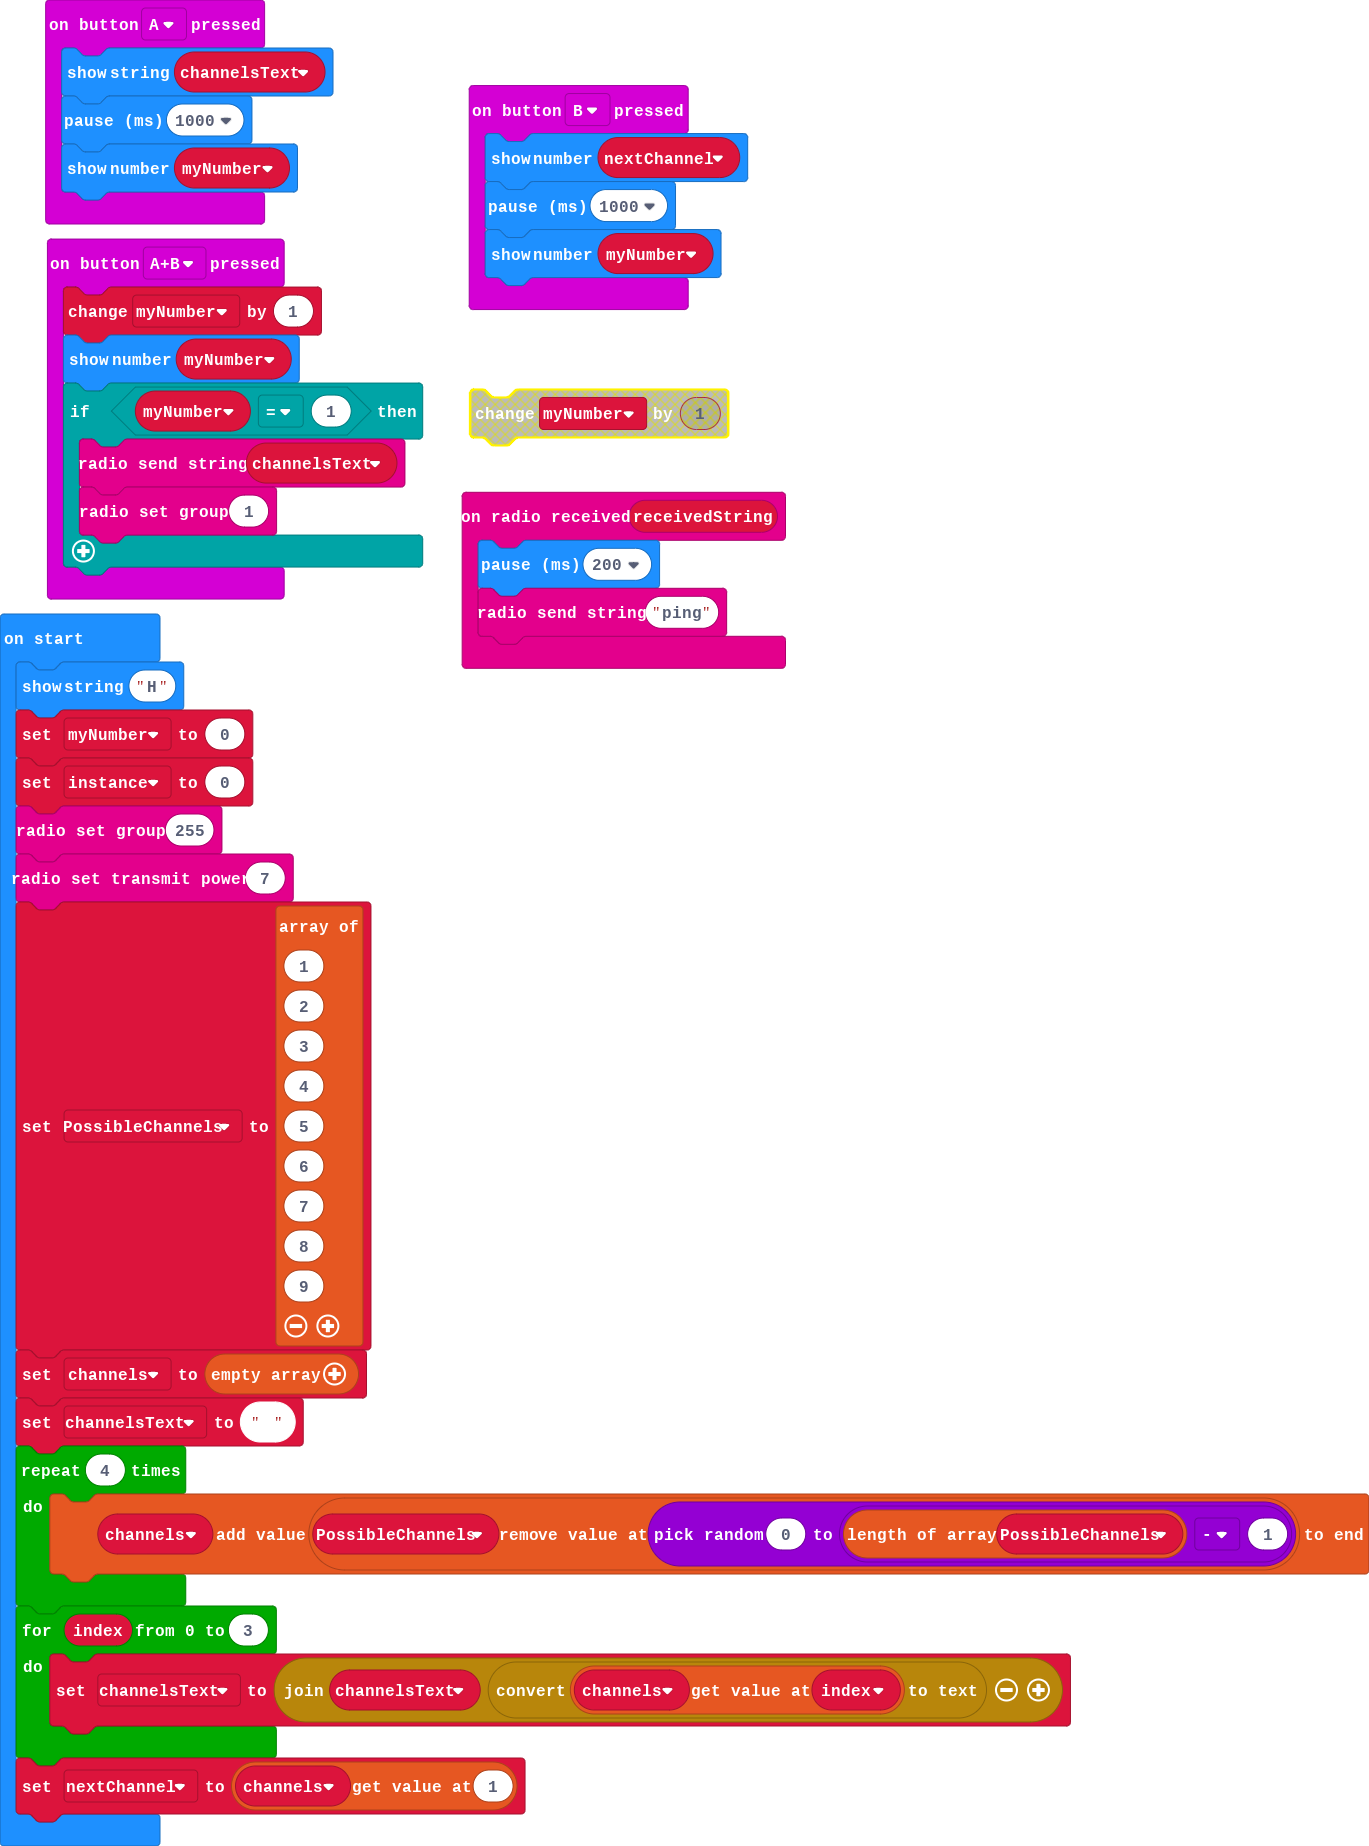
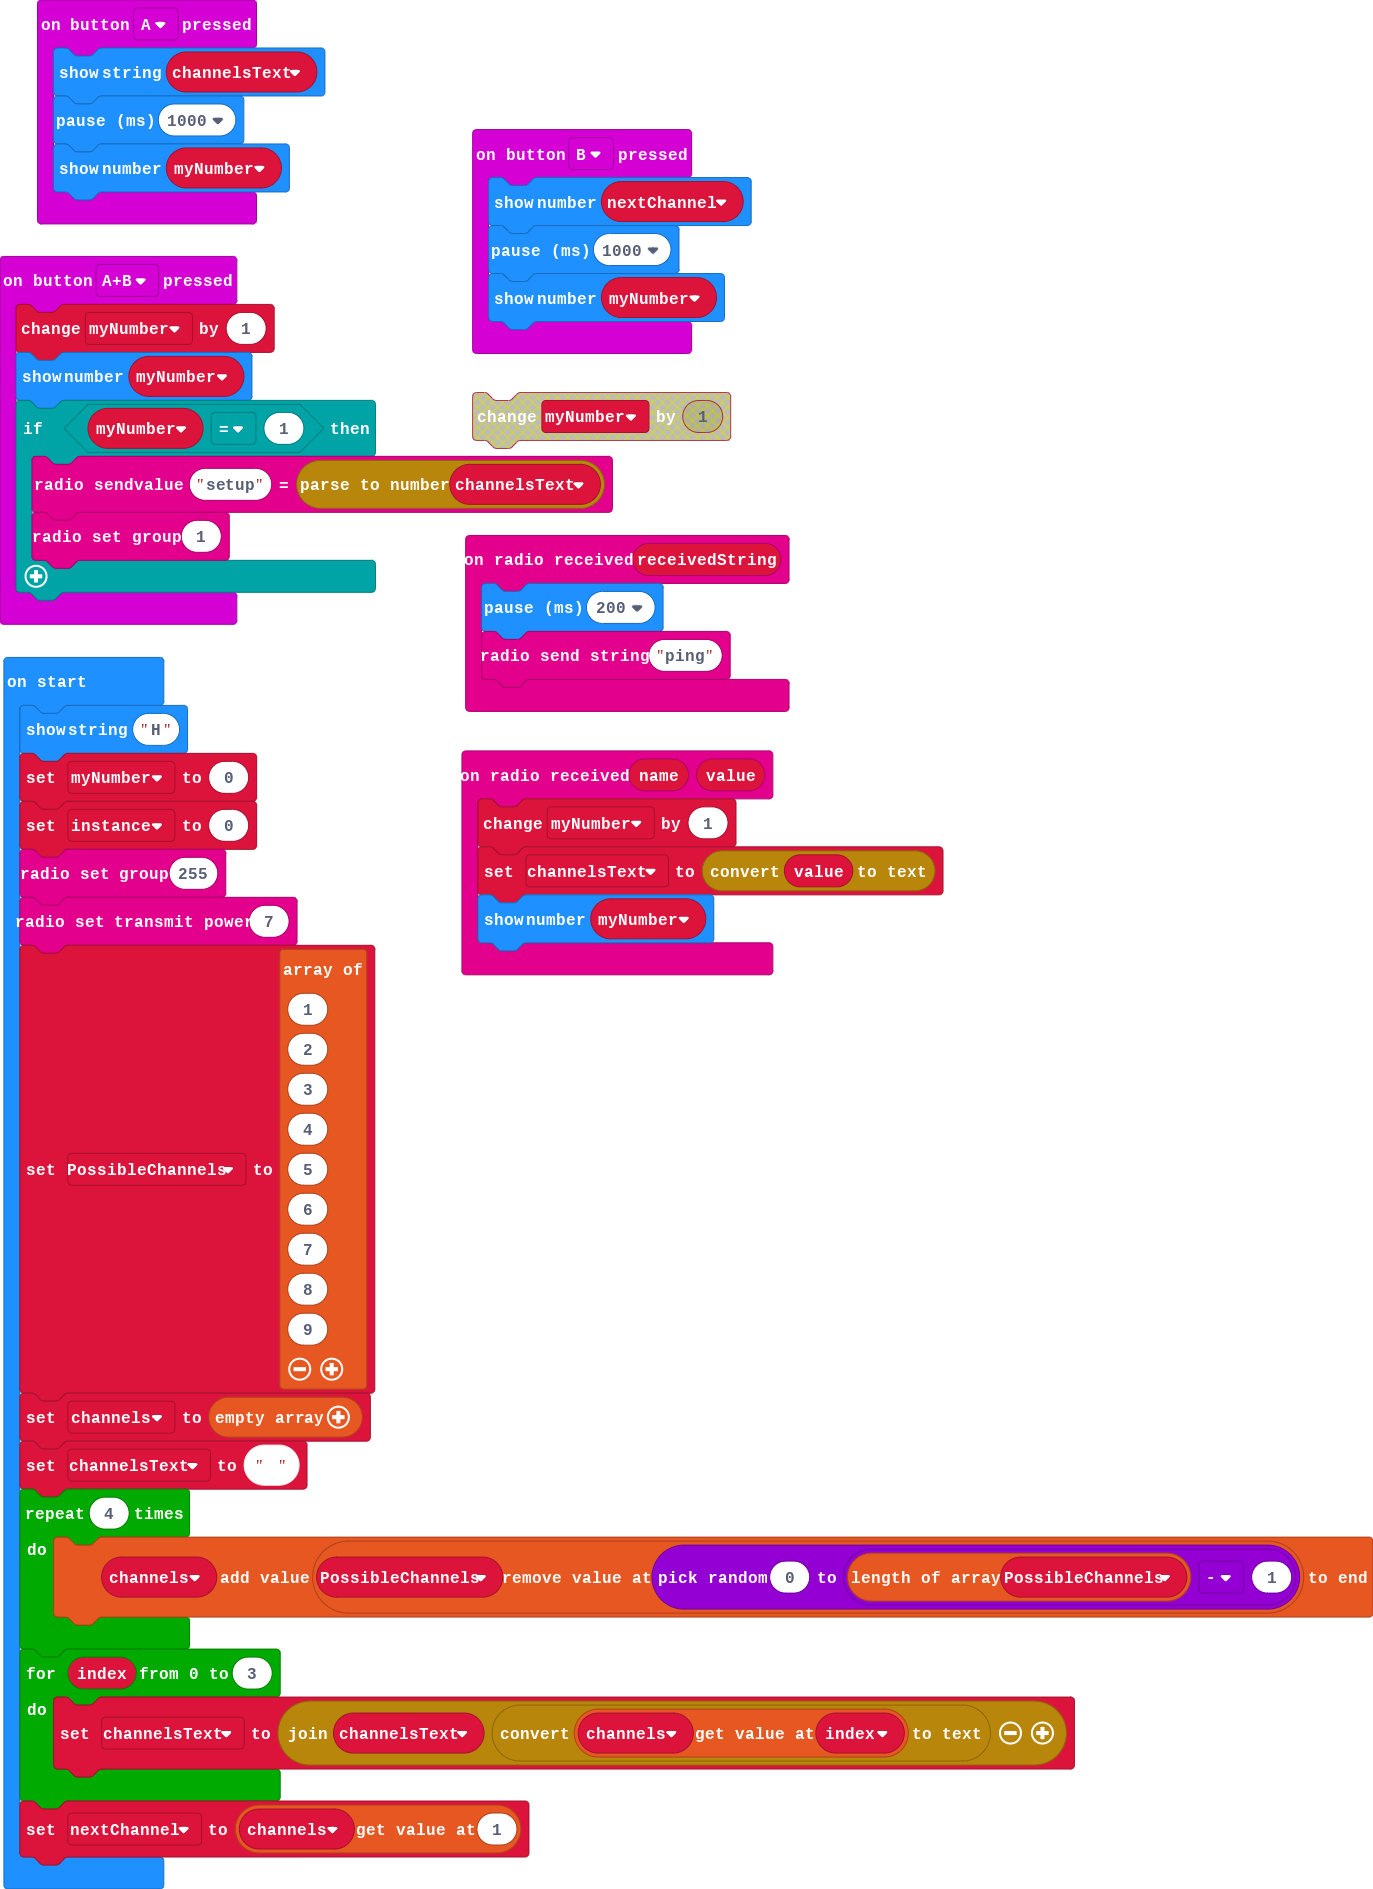
Update main.blocks, main.ts

Changed region(s): [[0.0, 0.0, 1.0, 1.0]]

diff --git a/main.ts b/main.ts
@@ -1,3 +1,8 @@
+radio.onReceivedValue(function (name, value) {
+    myNumber += 1
+    channelsText = convertToText(value)
+    basic.showNumber(myNumber)
+})
 radio.onReceivedString(function (receivedString) {
     basic.pause(200)
     radio.sendString("ping")
@@ -6,7 +11,7 @@ input.onButtonPressed(Button.AB, function () {
     myNumber += 1
     basic.showNumber(myNumber)
     if (myNumber == 1) {
-        radio.sendString(channelsText)
+        radio.sendValue("setup", parseFloat(channelsText))
         radio.setGroup(1)
     }
 })
